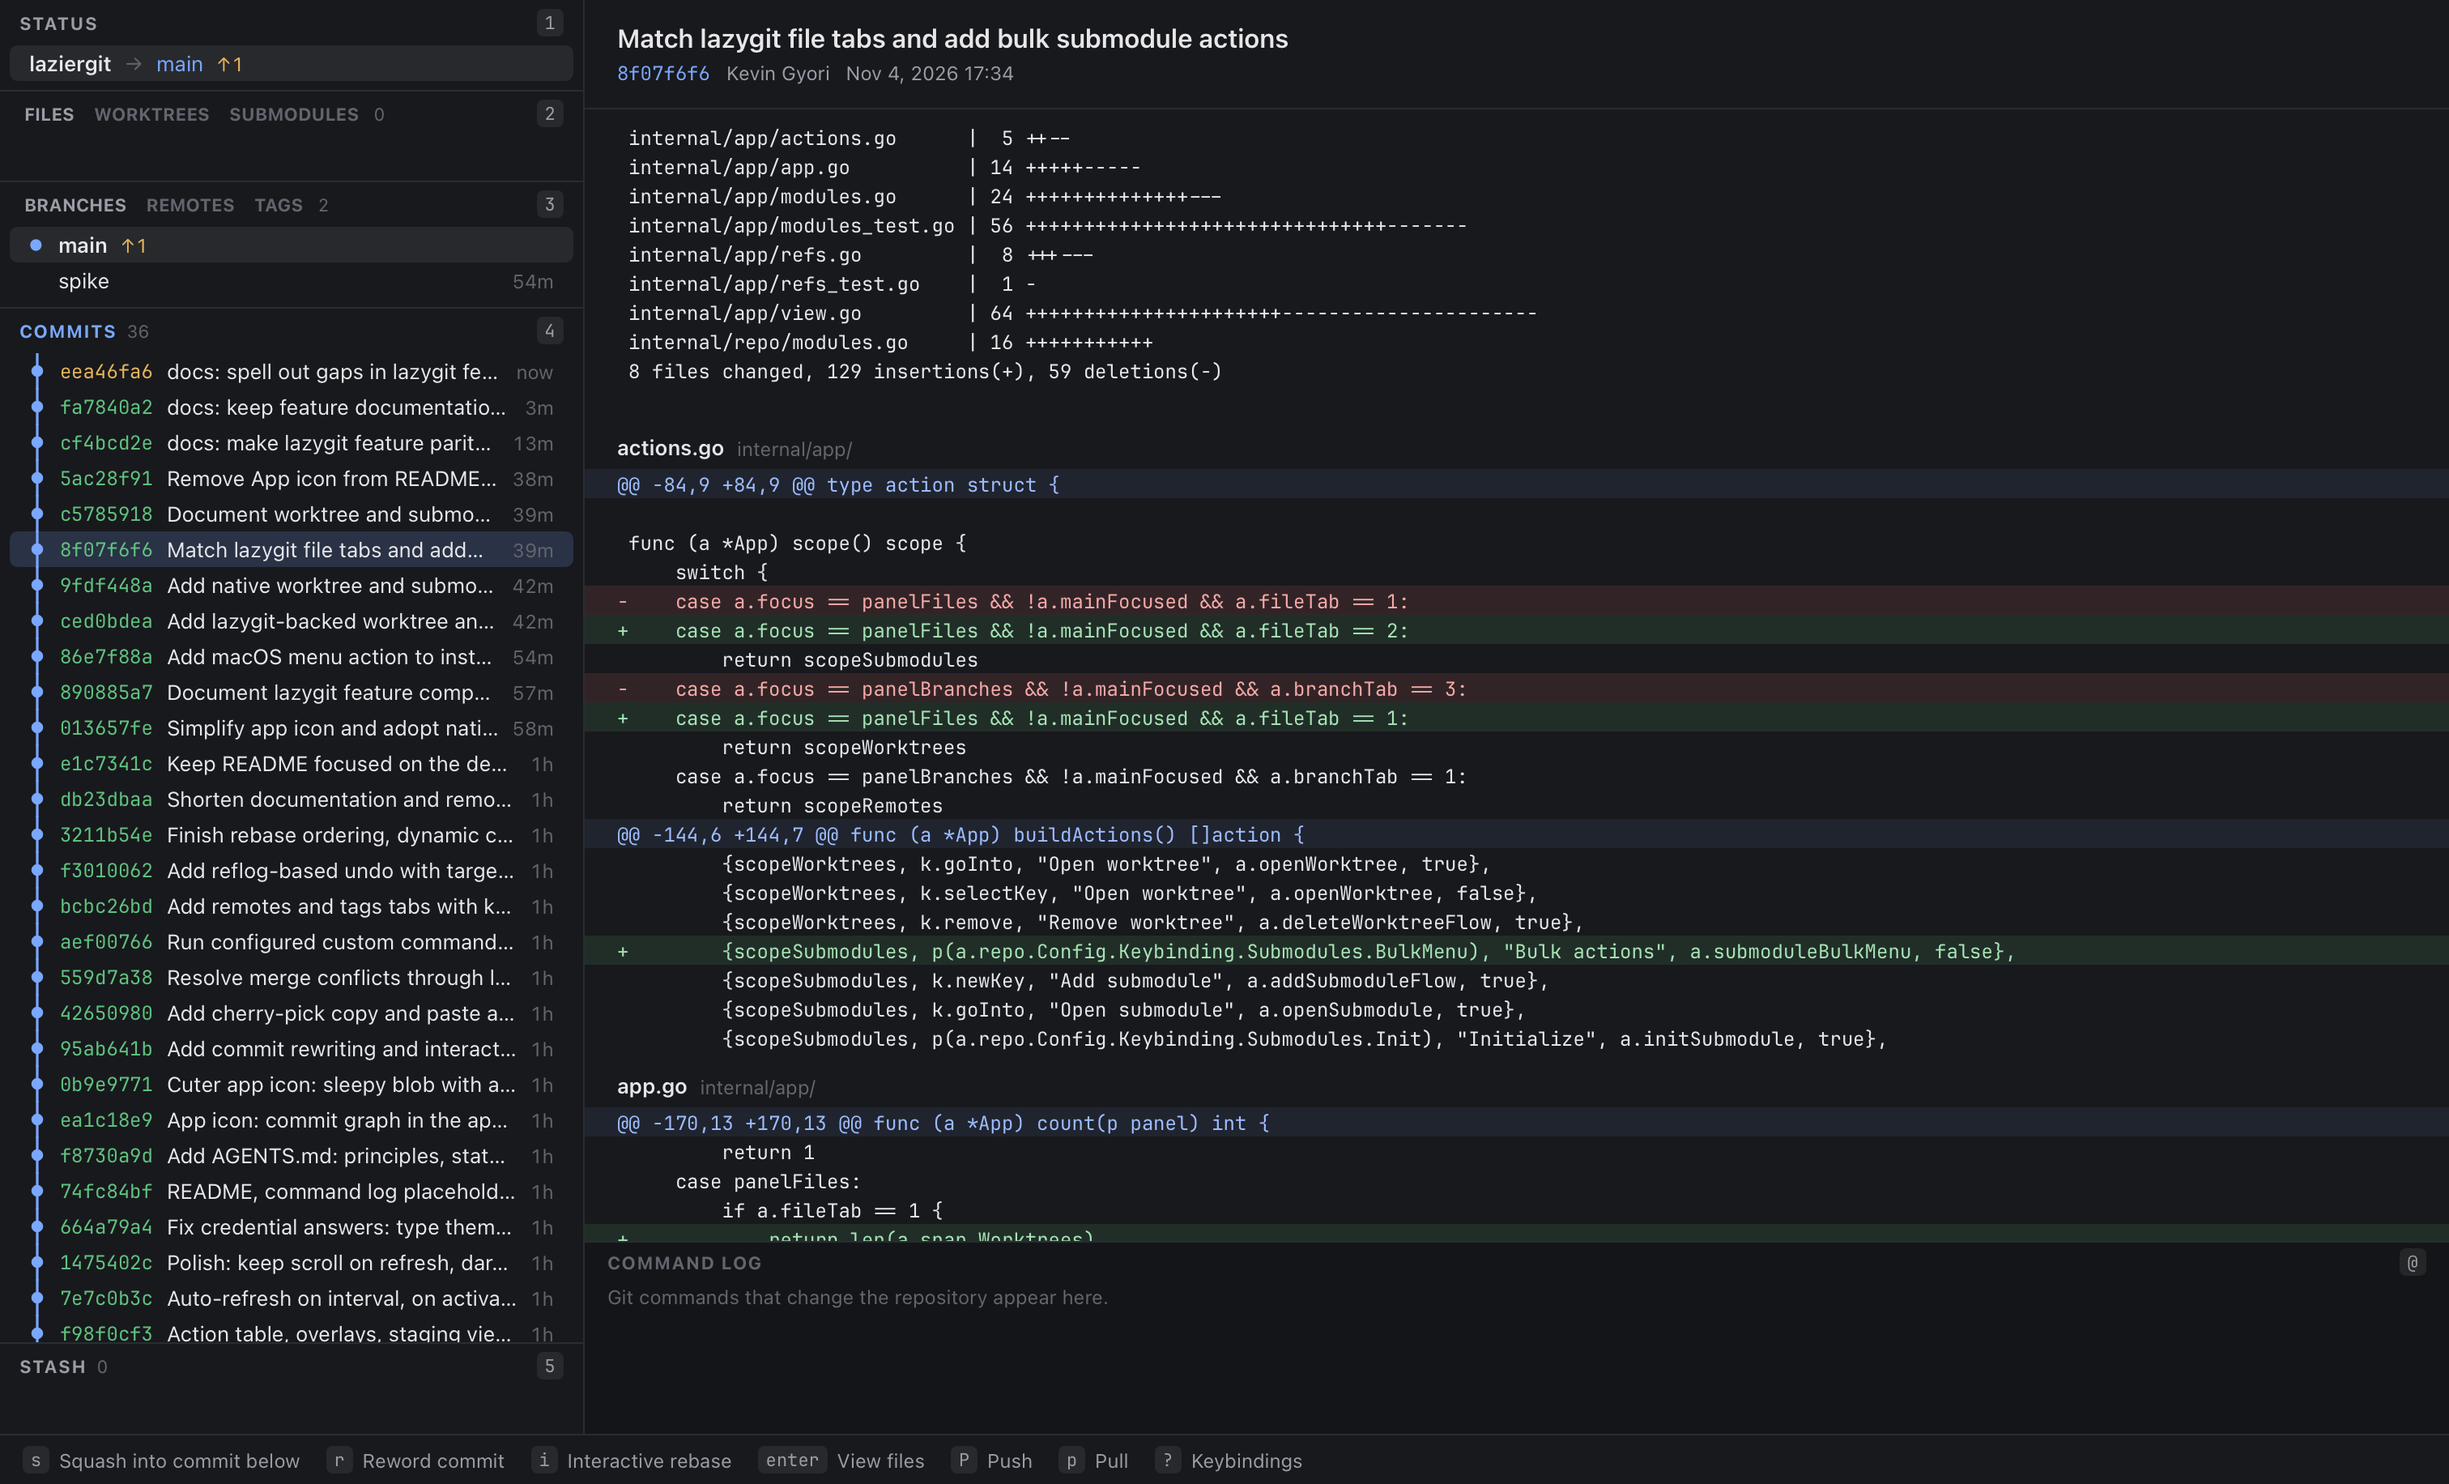
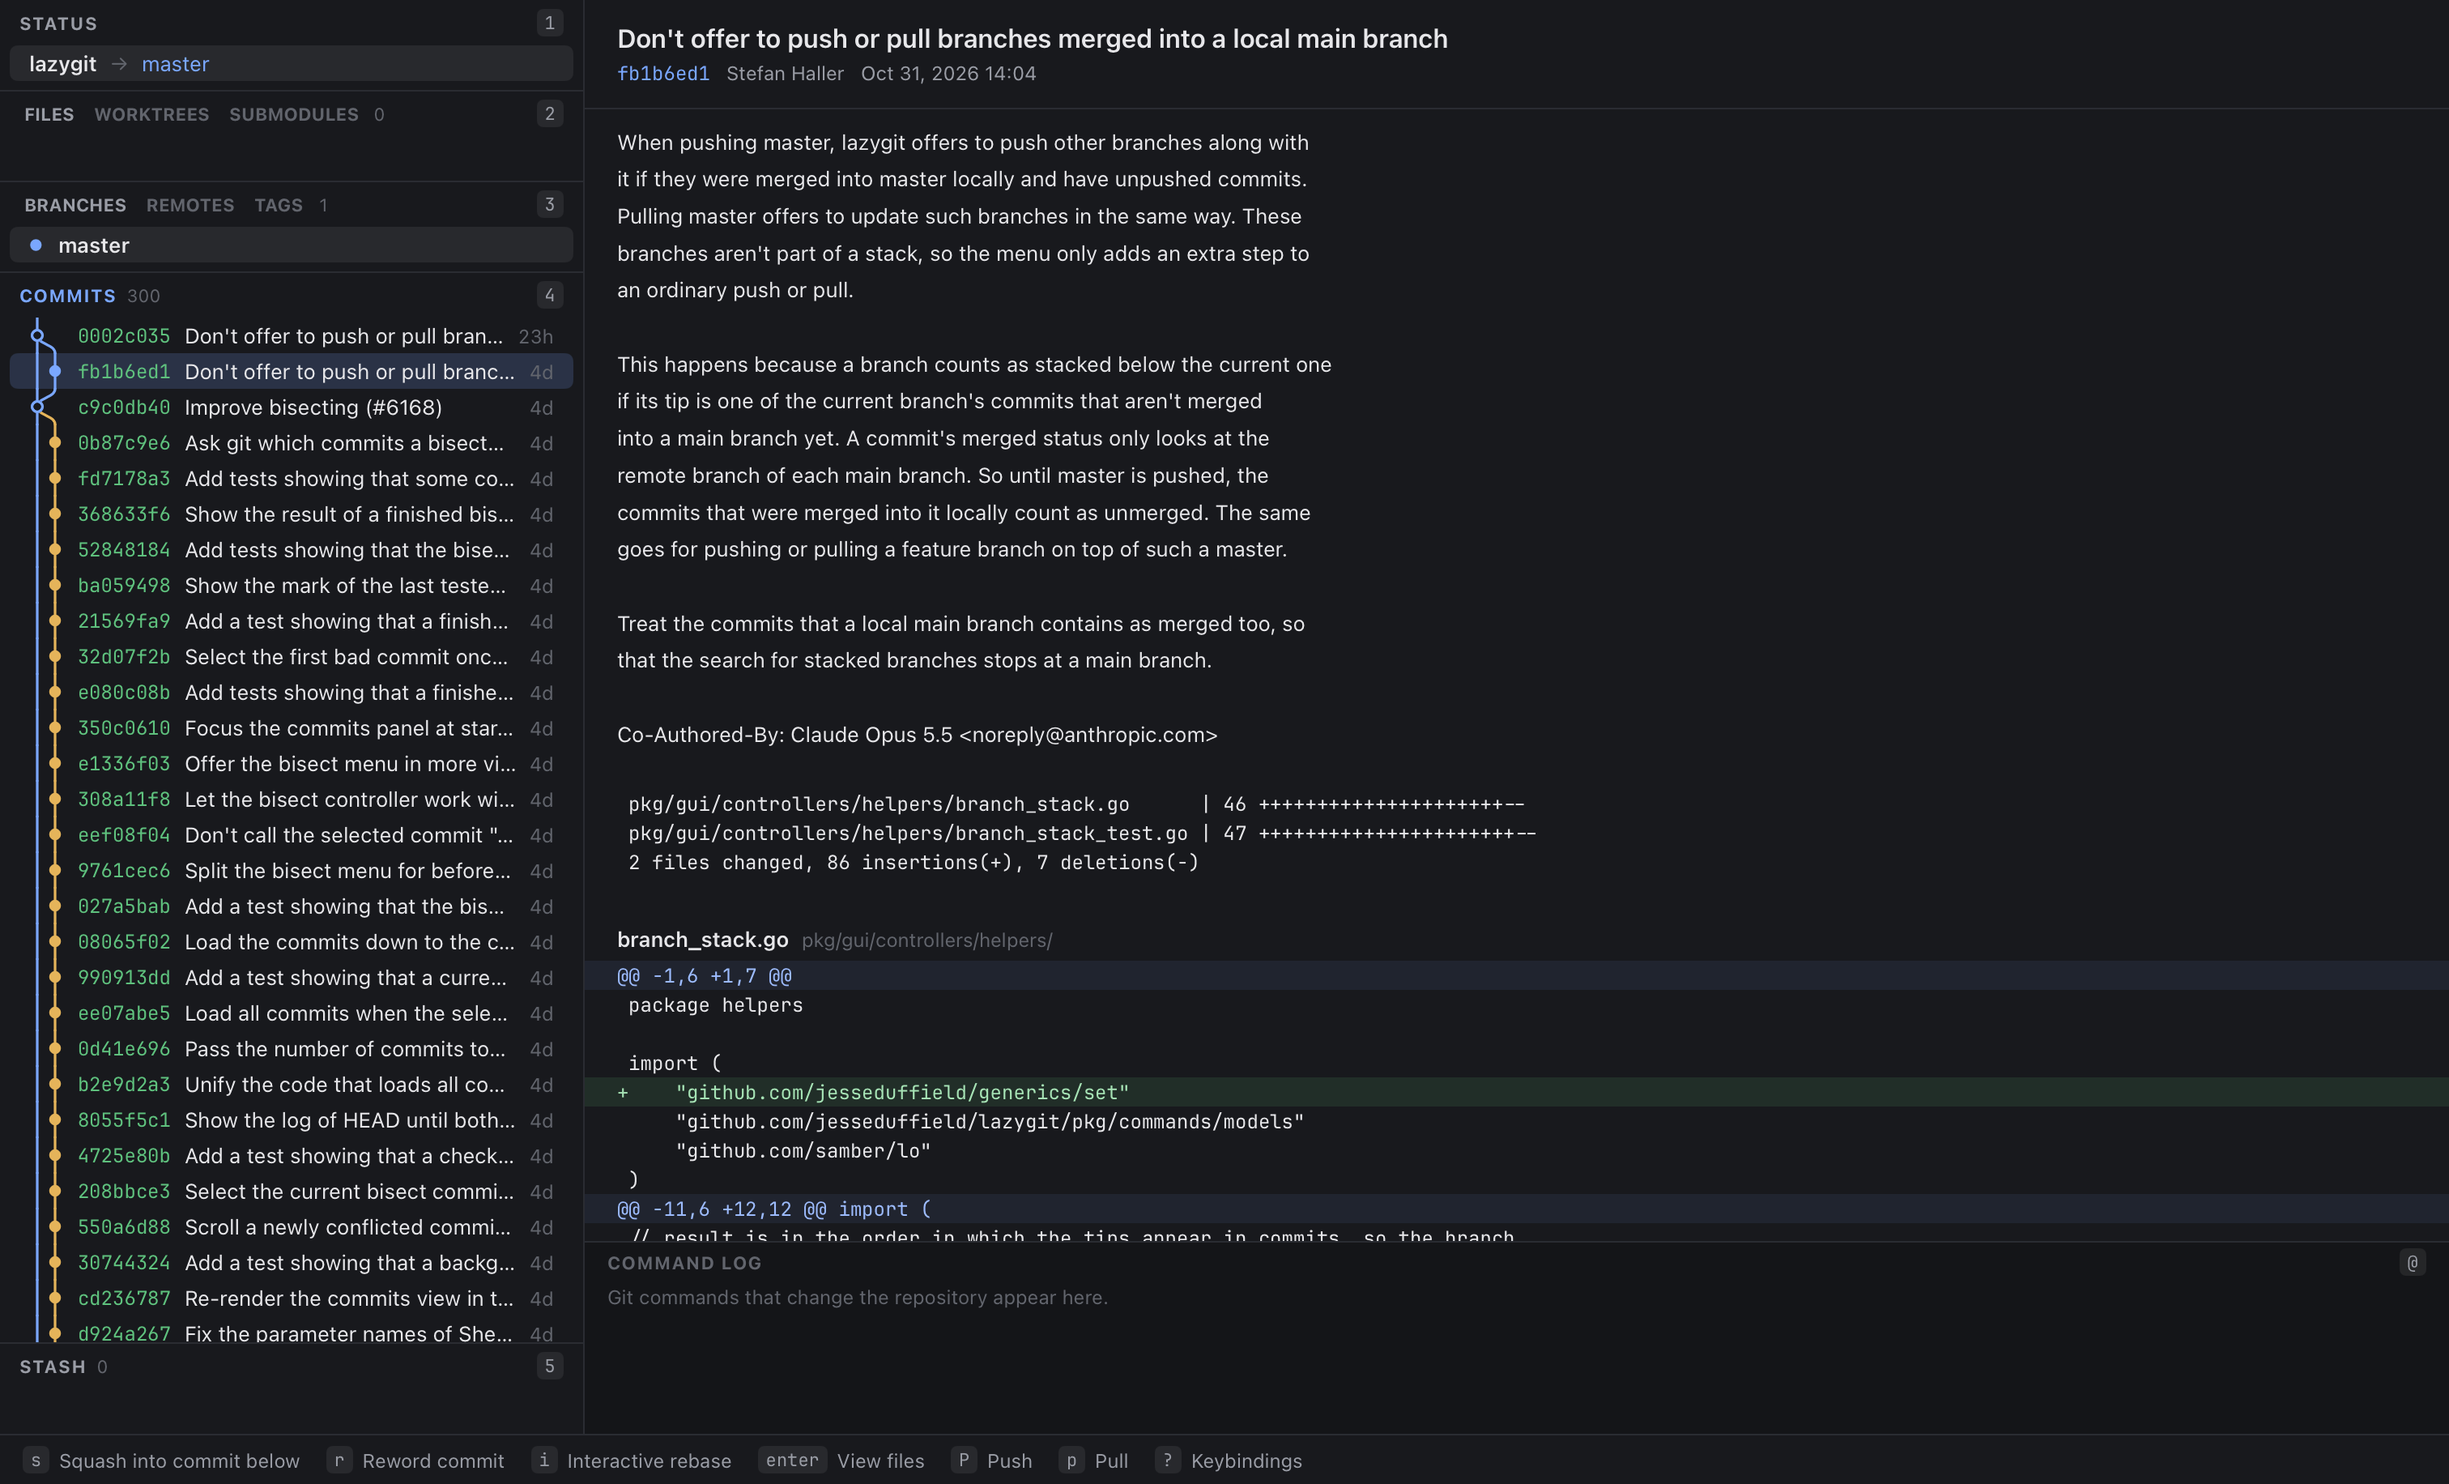
docs: show lazygit repository in README screenshot

diff --git a/README.md b/README.md
@@ -9,7 +9,7 @@ real type hierarchy, hairline borders, a full colour palette, a drawn commit gra
 Built with [MyGo](https://mygo.egoist.dev)'s native UI (Go, GPU-drawn, no webview) on top of
 lazygit's own git layer (`pkg/commands`), so git behaviour matches lazygit's.
 
-![laziergit showing the commit graph and a code diff](resources/screenshot.png)
+![laziergit showing the lazygit repository's commit graph and a code diff](resources/screenshot.png)
 
 ```sh
 go run . /path/to/repo
